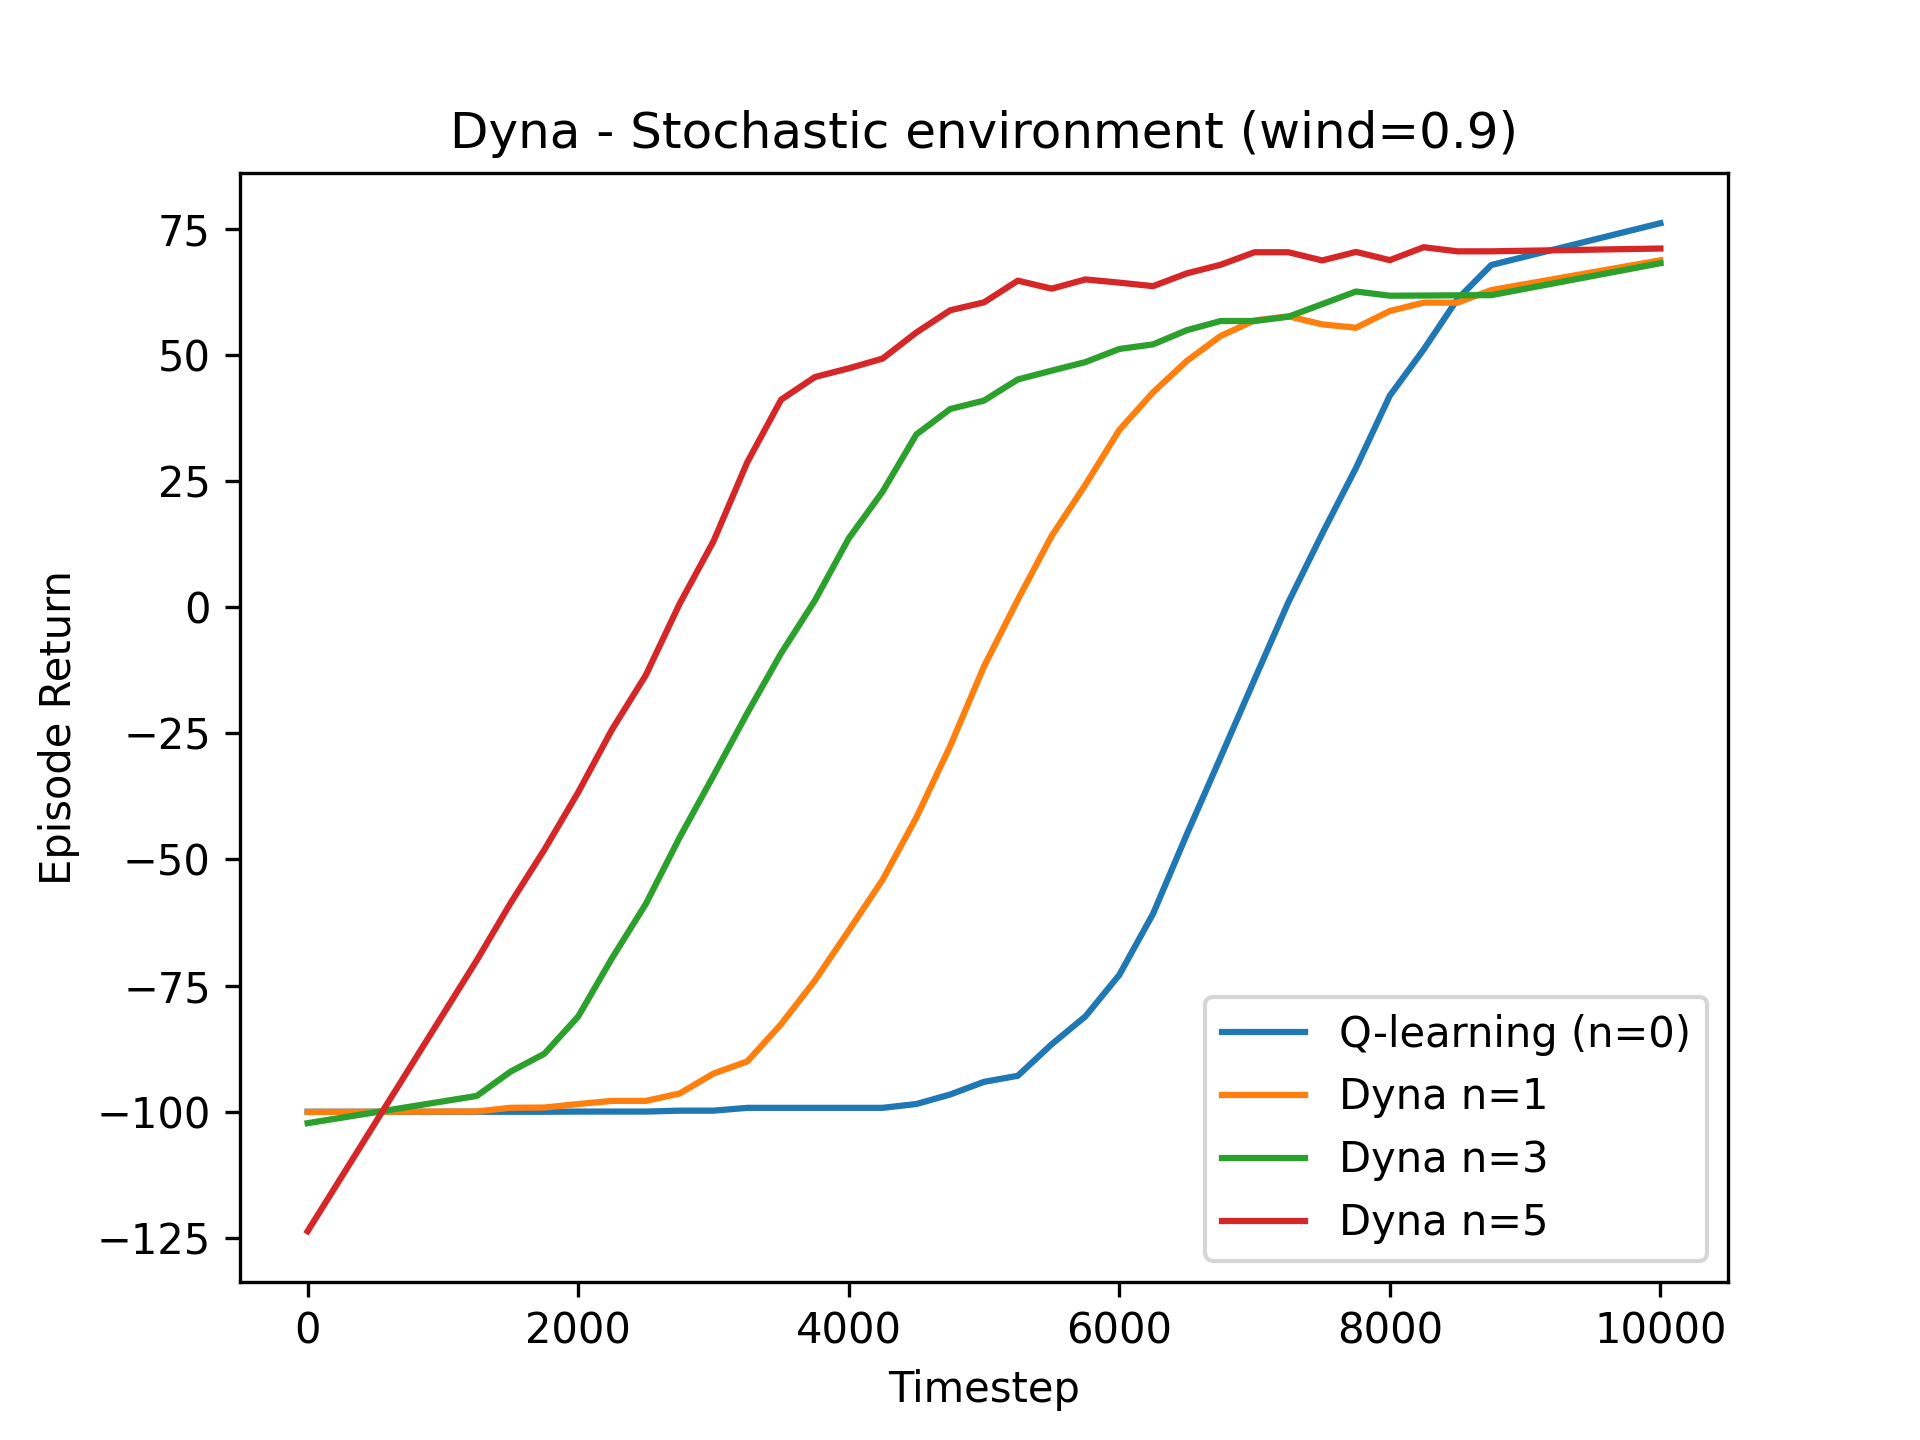
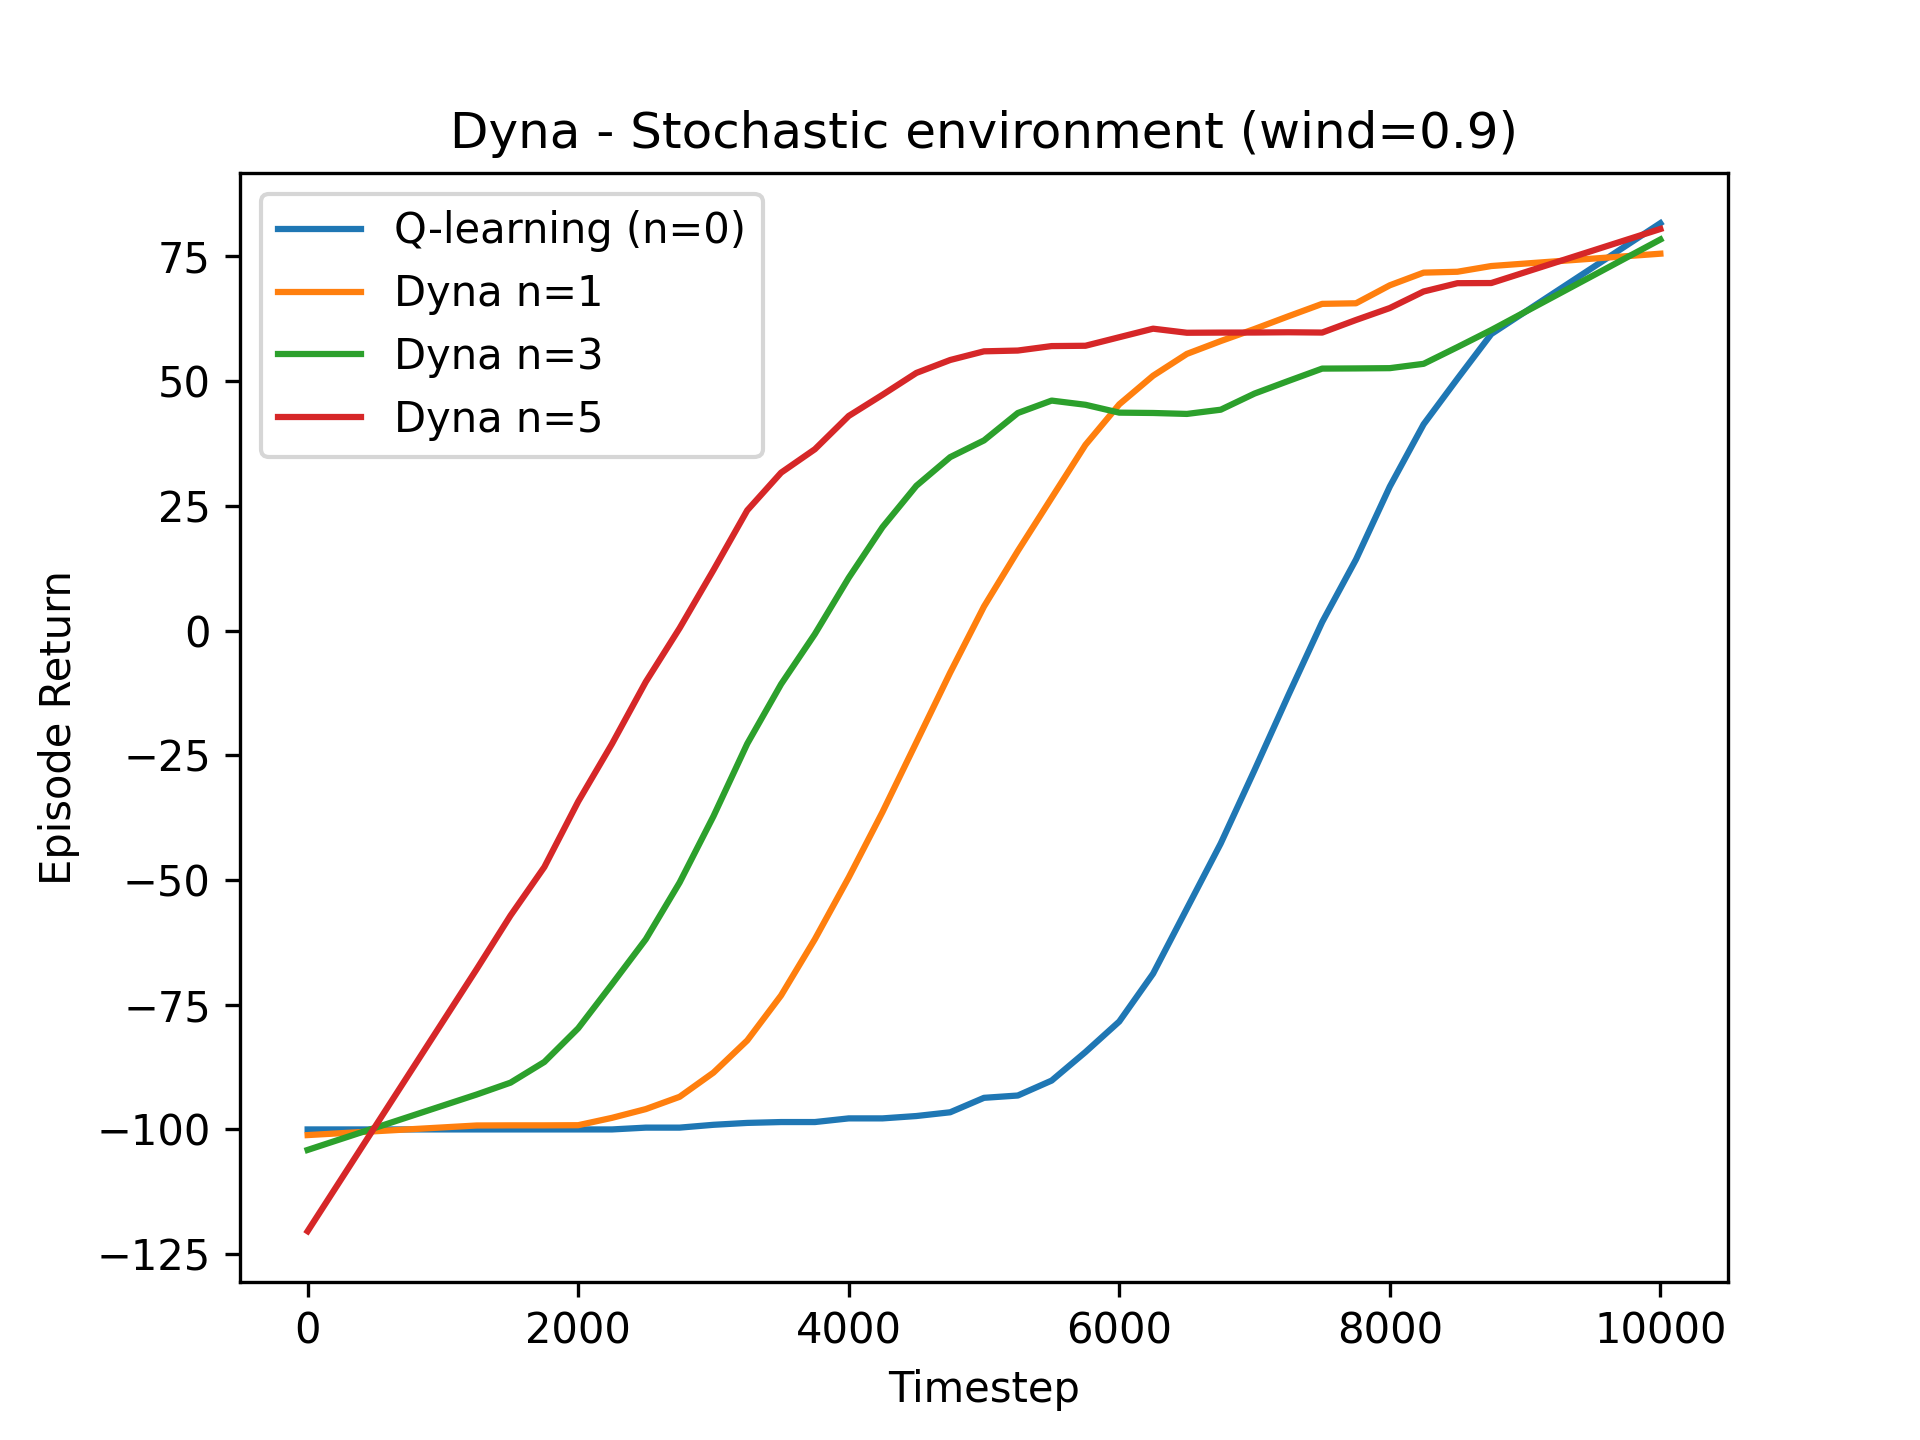
ps experiments plus graphs

diff --git a/IRL_A3/MBRLExperiment.py b/IRL_A3/MBRLExperiment.py
@@ -13,16 +13,17 @@ from MBRLAgents import DynaAgent, PrioritizedSweepingAgent
 from Helper import LearningCurvePlot, smooth
 
 
-def run_repetitions(n_timesteps, n_repetitions, eval_interval, gamma, learning_rate,
-                    epsilon, n_planning_updates, wind_proportion):
+def run_repetitions(agent_class, n_timesteps, n_repetitions, eval_interval, gamma,
+                    learning_rate, epsilon, n_planning_updates, wind_proportion):
     all_curves = []
     eval_timesteps = np.arange(0, n_timesteps, eval_interval)
 
-    for rep in tqdm(range(n_repetitions), desc=f'n_plan={n_planning_updates}, wind={wind_proportion}'):
+    for rep in tqdm(range(n_repetitions),
+                    desc=f'{agent_class.__name__} n_plan={n_planning_updates}, wind={wind_proportion}'):
         # initialize a new environment and agent from scratch each repetition
         env = WindyGridworld(wind_proportion=wind_proportion)
         eval_env = WindyGridworld(wind_proportion=wind_proportion)
-        agent = DynaAgent(env.n_states, env.n_actions, learning_rate, gamma)
+        agent = agent_class(env.n_states, env.n_actions, learning_rate, gamma)
 
         s = env.reset()
         curve = []
@@ -61,6 +62,7 @@ def experiment():
     n_planning_updatess = [1, 3, 5]
     smoothing_window = 11
 
+    # Dyna experiments
     for wind_proportion in wind_proportions:
 
         if wind_proportion == 0.9:
@@ -73,17 +75,45 @@ def experiment():
         plot = LearningCurvePlot(title=title)
 
         # Q-learning baseline: n_planning_updates=0 means no planning, just Q-learning
-        ts, curve = run_repetitions(n_timesteps, n_repetitions, eval_interval, gamma,
-                                    learning_rate, epsilon, n_planning_updates=0,
+        ts, curve = run_repetitions(DynaAgent, n_timesteps, n_repetitions, eval_interval,
+                                    gamma, learning_rate, epsilon, n_planning_updates=0,
                                     wind_proportion=wind_proportion)
         plot.add_curve(ts, smooth(curve, smoothing_window), label='Q-learning (n=0)')
 
         # Dyna with different planning budgets
         for n_plan in n_planning_updatess:
-            ts, curve = run_repetitions(n_timesteps, n_repetitions, eval_interval, gamma,
-                                        learning_rate, epsilon, n_planning_updates=n_plan,
+            ts, curve = run_repetitions(DynaAgent, n_timesteps, n_repetitions, eval_interval,
+                                        gamma, learning_rate, epsilon, n_planning_updates=n_plan,
                                         wind_proportion=wind_proportion)
             plot.add_curve(ts, smooth(curve, smoothing_window), label=f'Dyna n={n_plan}')
+
+        plot.save(fname)
+        print(f'Saved {fname}')
+
+    # Prioritized Sweeping experiments
+    for wind_proportion in wind_proportions:
+
+        if wind_proportion == 0.9:
+            title = 'Prioritized Sweeping - Stochastic environment (wind=0.9)'
+            fname = 'ps_stochastic.png'
+        else:
+            title = 'Prioritized Sweeping - Deterministic environment (wind=1.0)'
+            fname = 'ps_deterministic.png'
+
+        plot = LearningCurvePlot(title=title)
+
+        # Q-learning baseline: reuse DynaAgent with n_planning_updates=0
+        ts, curve = run_repetitions(DynaAgent, n_timesteps, n_repetitions, eval_interval,
+                                    gamma, learning_rate, epsilon, n_planning_updates=0,
+                                    wind_proportion=wind_proportion)
+        plot.add_curve(ts, smooth(curve, smoothing_window), label='Q-learning (n=0)')
+
+        # Prioritized Sweeping with different planning budgets
+        for n_plan in n_planning_updatess:
+            ts, curve = run_repetitions(PrioritizedSweepingAgent, n_timesteps, n_repetitions,
+                                        eval_interval, gamma, learning_rate, epsilon,
+                                        n_planning_updates=n_plan, wind_proportion=wind_proportion)
+            plot.add_curve(ts, smooth(curve, smoothing_window), label=f'PS n={n_plan}')
 
         plot.save(fname)
         print(f'Saved {fname}')